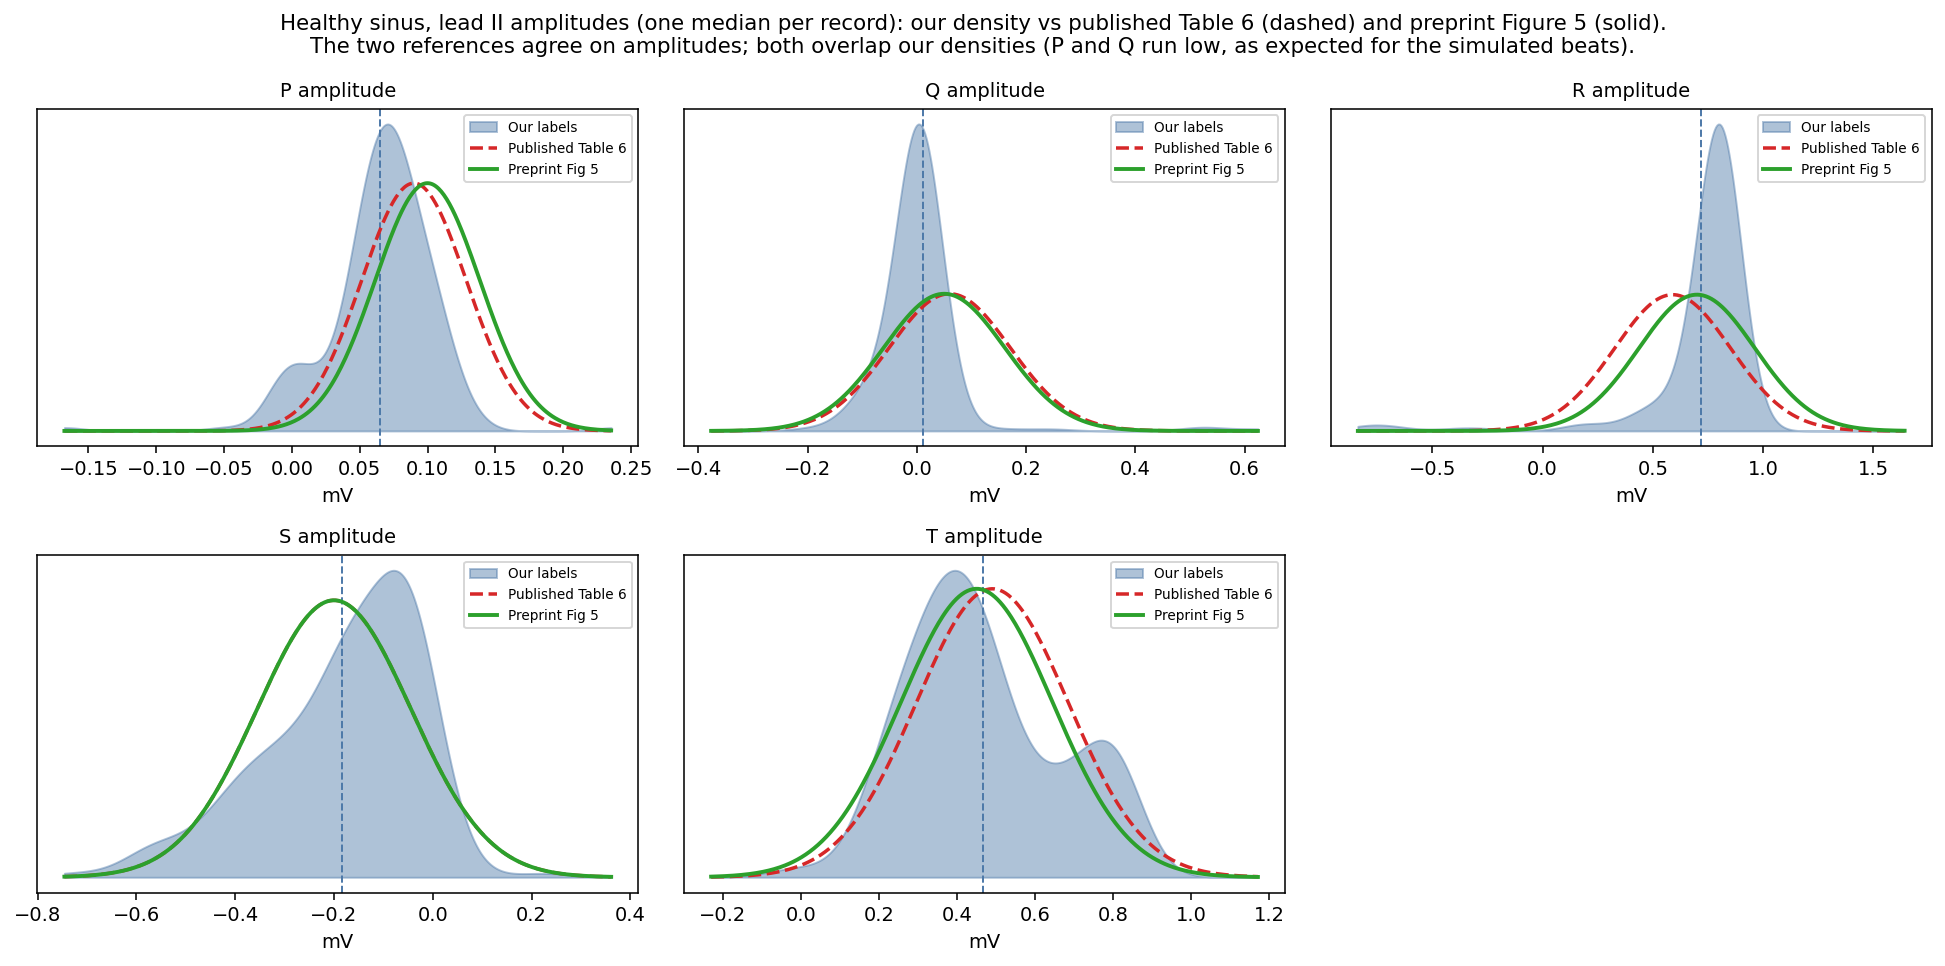
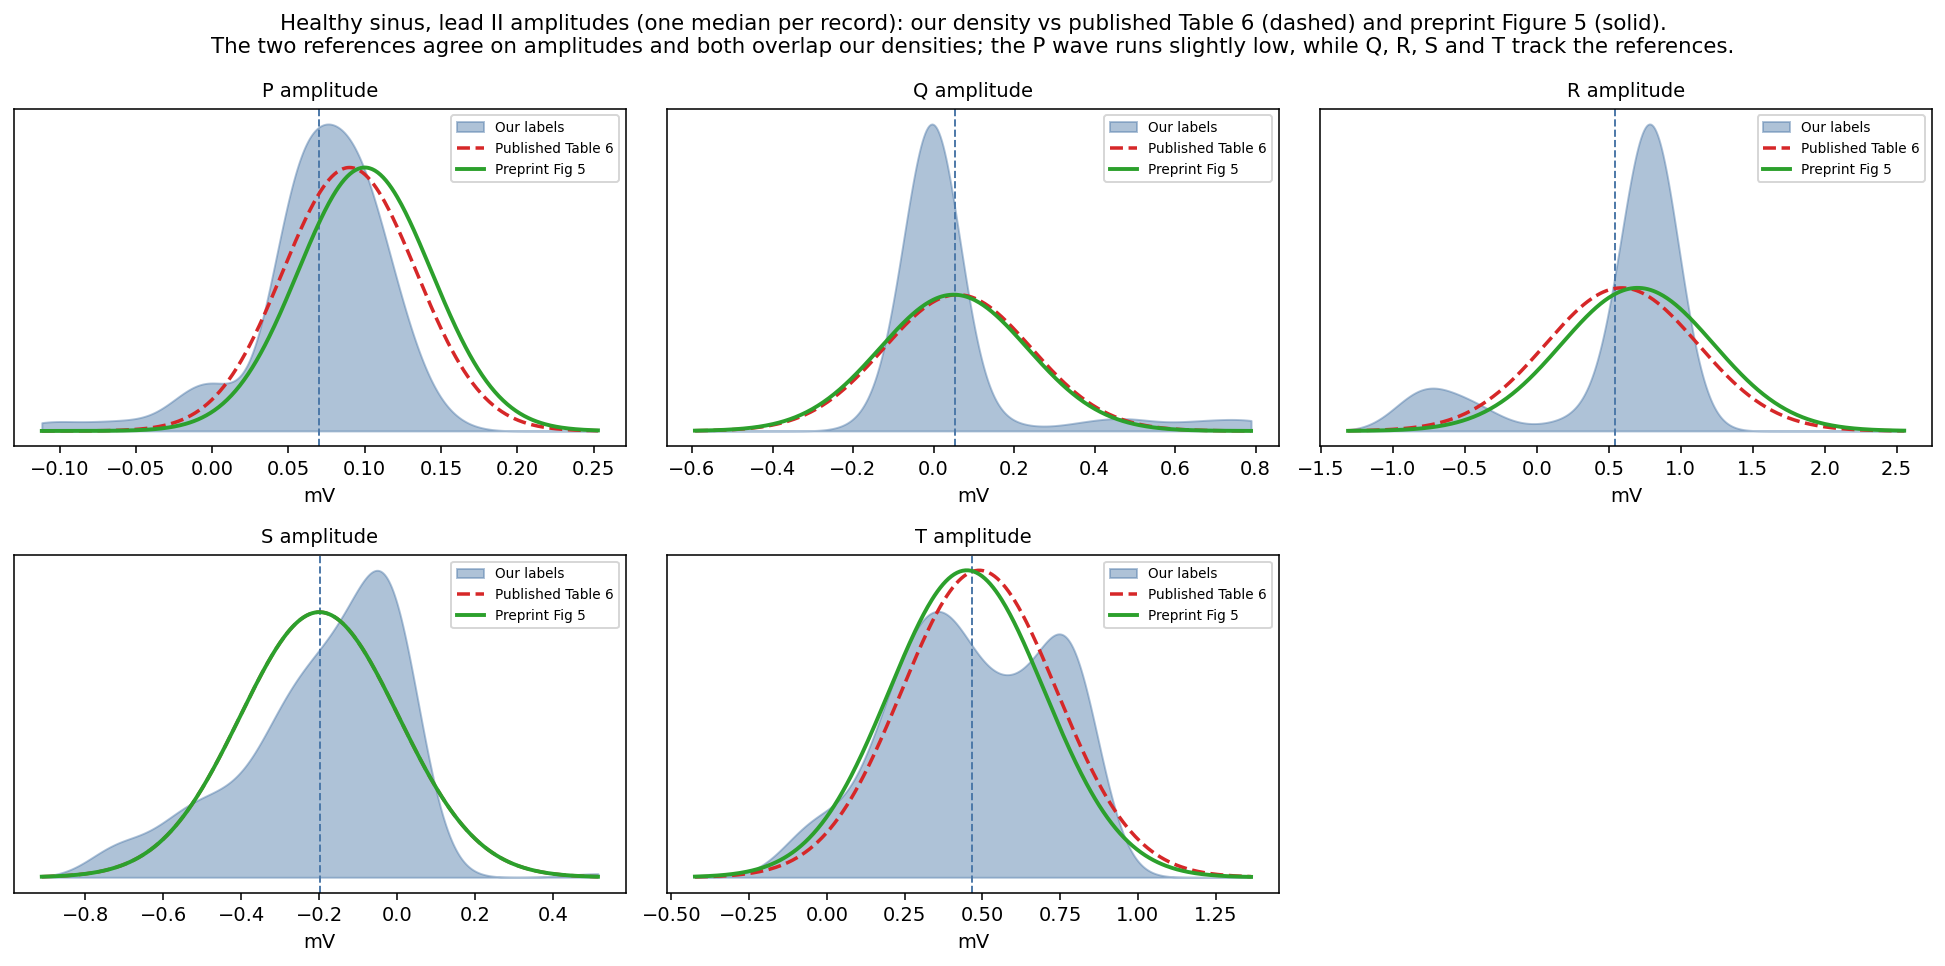
Add random seed configuration

diff --git a/statistics/README.md b/statistics/README.md
@@ -46,18 +46,19 @@ falls outside it; for every other feature the three overlap.
 ## Amplitudes (sinus, lead II — Figure 5 amplitude panels)
 
 Amplitude = signal at the fiducial peak minus the pre-QRS baseline, per-signal median then cohort
-mean over 200 sampled recordings (`amplitudes_sinus_leadII.csv`):
+mean over a reproducible random sample of 200 recordings, seed 2026 (`amplitudes_sinus_leadII.csv`):
 
 | Feature | Ours (mV) | Table 6 | Preprint Fig 5 (est.) |
 |---|---|---|---|
-| P amplitude | 0.065 | 0.09 | ~0.10 |
-| Q amplitude | 0.012 | 0.06 | ~0.05 |
-| R amplitude | 0.720 | 0.59 | ~0.70 |
-| S amplitude | −0.185 | −0.20 | ~−0.20 |
-| T amplitude | 0.466 | 0.49 | ~0.45 |
+| P amplitude | 0.07 | 0.09 | ~0.10 |
+| Q amplitude | 0.052 | 0.06 | ~0.05 |
+| R amplitude | 0.541 | 0.59 | ~0.70 |
+| S amplitude | −0.197 | −0.20 | ~−0.20 |
+| T amplitude | 0.468 | 0.49 | ~0.45 |
 
-R, S and T amplitudes match both references (R actually sits on the preprint's ~0.70); P and Q
-run low, consistent with the residual P wave and small Q of the simulated beats.
+S and T amplitudes match both references; R sits close to Table 6 (0.54 vs 0.59) and below the
+preprint's ~0.70; the P wave runs slightly low while Q now agrees closely with Table 6, consistent
+with the residual P wave of the simulated beats.
 
 ## Per-class timing (Figure 6)
 
@@ -77,18 +78,18 @@ expected direction (`fig6_timing_by_class.csv`):
 ### Figure 6 amplitude panels (healthy vs disease)
 
 The amplitude features Figure 6 highlights per disease (`fig6_amplitudes_by_class.csv`), computed
-as signal-at-peak minus pre-QRS baseline, per-signal median then cohort mean over 100 recordings:
+as signal-at-peak minus pre-QRS baseline, per-signal median then cohort mean over a reproducible random sample of 100 recordings per class (seed 2026):
 
 | Feature (lead) | Class | Healthy (mV) | Disease (mV) | Shift |
 |---|---|---|---|---|
-| Q amplitude (II) | MI | −0.021 | +0.137 | +0.158 |
-| R amplitude (V2) | MI | −2.410 | −2.899 | −0.489 |
-| R amplitude (II) | LAE | 0.753 | 0.754 | +0.001 |
-| P amplitude (aVL) | FAM | 0.043 | 0.008 | −0.035 |
-| P amplitude (V6) | FAM | 0.076 | 0.060 | −0.016 |
+| Q amplitude (II) | MI | 0.046 | 0.133 | +0.087 |
+| R amplitude (V2) | MI | −1.494 | −2.076 | −0.582 |
+| R amplitude (II) | LAE | 0.549 | 0.496 | −0.053 |
+| P amplitude (aVL) | FAM | 0.035 | 0.014 | −0.021 |
+| P amplitude (V6) | FAM | 0.084 | 0.049 | −0.035 |
 
 MI alters the Q (lead II) and R (V2) amplitudes, and FAM reduces the P-wave amplitude (aVL, V6) —
-both consistent with Figure 6. LAE leaves the R amplitude unchanged (its signature is in the P
+both consistent with Figure 6. LAE leaves the R amplitude little changed (its signature is in the P
 wave, not R). The V2 R amplitude is negative because V2 carries a predominantly negative
 (rS/QS) QRS in these simulated signals, so the labelled R sits below baseline.
 